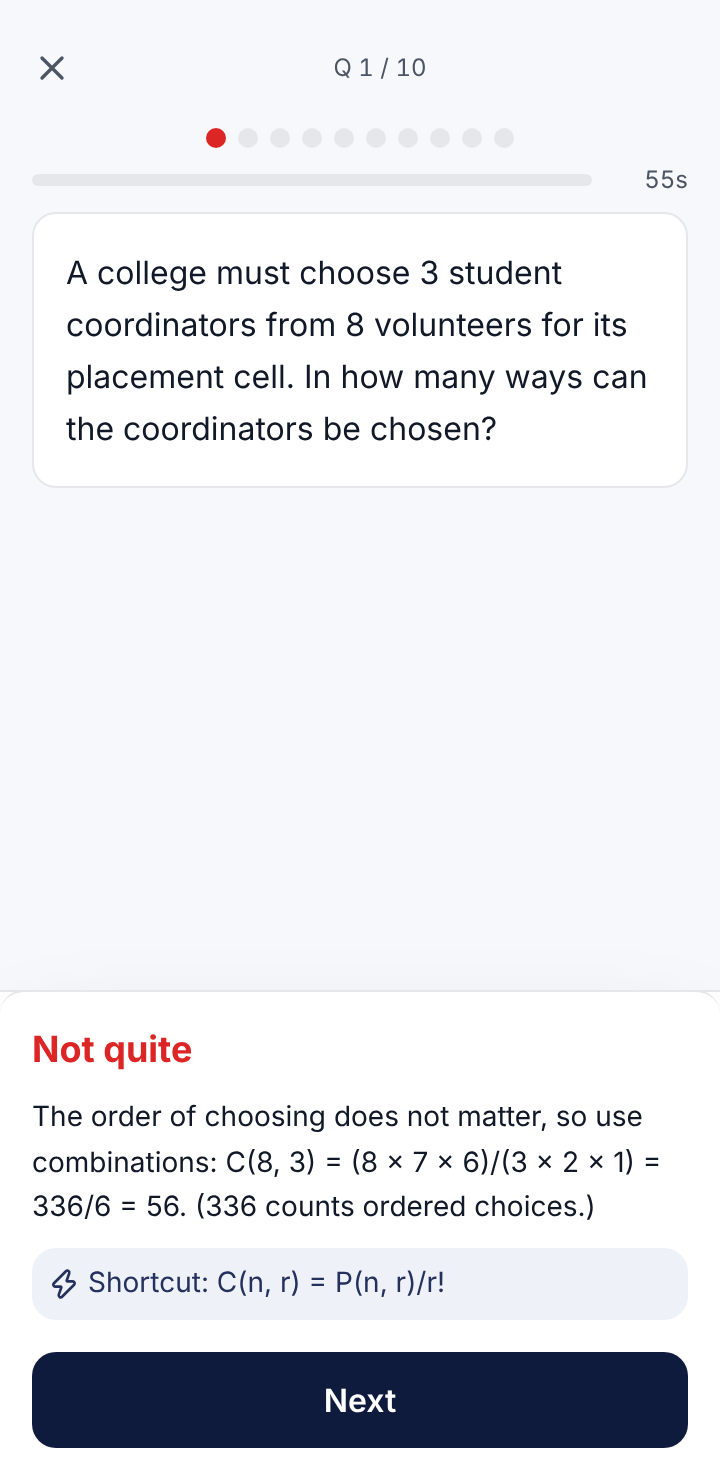
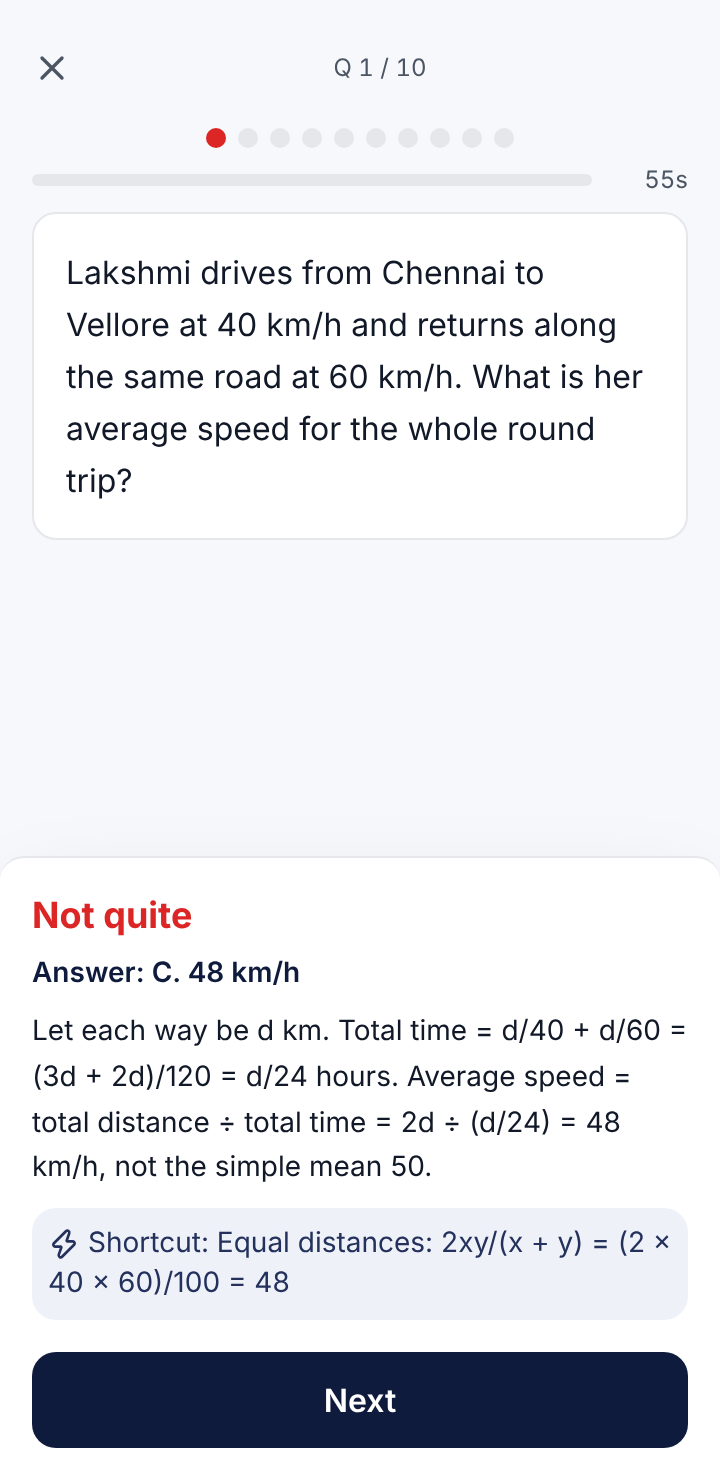
phase 10: show correct option on wrong answers, final QA matrix + progress
Claude-Session: https://claude.ai/code/session_01KwWXsM2UgLTaRN7ciBLri9

Changed region(s): [[0.0306, 0.5905, 0.9167, 0.8703], [0.0917, 0.1554, 0.8861, 0.3419]]

diff --git a/src/components/drill/ExplanationSheet.tsx b/src/components/drill/ExplanationSheet.tsx
@@ -23,6 +23,11 @@ export function ExplanationSheet({ result, onNext, last, explainEnabled, correct
         <p className={`text-lg font-bold ${result.correct ? "text-success-700" : "text-danger-500"}`} data-testid="verdict">
           {result.correct ? `Correct! +${result.xp} XP` : result.chosenDisplayed === null ? "Skipped" : "Not quite"}
         </p>
+        {!result.correct && correctText && (
+          <p className="mt-1 text-sm font-semibold text-ink-900" data-testid="correct-answer">
+            Answer: {["A", "B", "C", "D"][result.correctDisplayed]}. {correctText}
+          </p>
+        )}
         <p className="mt-2 text-sm leading-relaxed text-text-900">{result.explanation}</p>
         {result.shortcut && <p className="mt-2 rounded-md bg-ink-50 p-2 text-sm text-ink-700"><Zap aria-hidden className="mr-1 inline h-4 w-4" />Shortcut: {result.shortcut}</p>}
         {explainEnabled && !result.correct && !more && (

diff --git a/e2e/drill.spec.ts b/e2e/drill.spec.ts
@@ -16,6 +16,7 @@ test("student answers 10 questions → done page shows score and streak 1", asyn
     await expect(page.getByText(`Q ${i + 1} / 10`)).toBeVisible();
     await answerCurrent(page);
     await expect(page.getByTestId("verdict")).toBeVisible();
+    if (/not quite/i.test(await page.getByTestId("verdict").innerText())) await expect(page.getByTestId("correct-answer")).toContainText(/^Answer: [ABCD]\. /);
     await page.getByRole("button", { name: i === 9 ? /finish/i : /^next$/i }).click();
   }
   await expect(page).toHaveURL(/\/done$/);

diff --git a/PROGRESS.md b/PROGRESS.md
@@ -1,26 +1,24 @@
 # PROGRESS — LearnCrew Campus
-Current phase: 10 — Final QA matrix (8 waits for Railway login) | Last green: 2026-11-05T01:50+05:30 | Tests: unit 194/194, e2e 27/27
+Current phase: DONE locally — waiting on human for Railway deploy (8) and API key (3) | Last green: 2026-11-05T02:40+05:30 | Tests: unit 195/195, e2e 32/32 (clean clone)
 Governing spec: ORCHESTRATOR.md (v2, adopted 2026-11-04 mid-build). v1 archived at docs/ORCHESTRATOR-v1.md; v1 phases 0–3 work carried over (same schema + stack).
 
 ## Phase checklist (✅ only when phase QA gate green)
 - [x] 0 — Design system + architecture docs ✅ (docs/DESIGN.md, ARCHITECTURE.md, SECURITY.md; tokens compile)
 - [x] 1 — Scaffold ✅ (v2 tokens navy/amber + Inter + lucide, env.ts boot validation, CSP nonce + headers, CI workflow, /dev/ui, architecture test)
 - [x] 2 — Auth + roles + tenancy ✅ (RBAC matrix 70 cases, Postgres rate limiter + login/submit wiring, audit logger, cookie flags, cross-college DB test; per-route IDOR e2e added as routes land)
-- [ ] 3 — Question bank + pipeline — BLOCKED on 600-Q count only (needs ANTHROPIC_API_KEY, D15). Green: schema tests, verifier fixture test, 260 golden verified Q, coverage/balance test, generate/qa/dedupe/quant-check (--dry-run), idempotent seed
+- [ ] 3 — Question bank + pipeline — BLOCKED on v2's 600-Q count only (needs ANTHROPIC_API_KEY, D15; v1 gate ≥120 met with 260). Green: schema tests, verifier fixture test, 260 golden verified Q, coverage/balance test, generate/qa/dedupe/quant-check (--dry-run), idempotent seed
 - [x] 4 — Student drill + streak + PWA ✅ (e2e: login → 10-Q drill → streak 1; offline answers sync once; SW offline shell + cached drill; axe zero serious on 7 screens; /today 108 KB JS)
 - [x] 5 — Adaptive engine + real mocks ✅ (Elo/bands/6-2-2/spaced review 17 tests; exam UX w/ palette, flags, keyboard, sectional timers, autosave+resume, negative marks, percentile, review mode; cron routes; e2e full mock + refresh, fake-clock auto-submit, leak, IDOR)
 - [x] 6 — TPO dashboard ✅ (KPIs, accuracy/mastery heatmap batch×topic & student×topic w/ company filter, students table + Excel-safe CSV export (audited), drill-down, at-risk + WhatsApp nudges, weekly report (template / Sonnet aggregates-only, cached), create/schedule mock (audited); services p95 ≤ 43 ms on 505 students; e2e incl. cross-college 404)
 - [x] 7 — Admin ✅ (roster CSV import w/ Zod row errors, seat limit, re-import idempotent, invites, rate limit, audit; batches + settings; content review queue w/ blind-QA side-by-side, approve → golden + college access → next drill; superadmin colleges/create+TPO invite, audit log viewer, DPDP export/delete with 15-min re-auth)
 - [ ] 8 — Railway deploy — config ✅ (Dockerfile Node 22 standalone, non-root, healthcheck; railway.json; compose prod; DEPLOY.md). Verified locally: image builds, migrates, /api/health ok, cron 401/200, bad env → exit 1. BLOCKED on human: `railway login` + deploy (steps in docs/DEPLOY.md)
 - [x] 9 — Pilot hardening ✅ (load: 500 students × 10 answers sync p95 35 ms, 200 concurrent mock-takers 200/200; Lighthouse mobile perf 99–100 / a11y 100 on 4 pages; explain-more cached + rate-limited; error/not-found pages; JSON logs; events; landing; smoke suite; DEMO.md; reports in docs/reports/). Backups: Railway volume backups — enable at deploy (DEPLOY.md §1)
-- [ ] 10 — Final QA matrix
+- [x] 10 — Final QA matrix ✅ locally (docs/QA_MATRIX.md: every row mapped to a passing test; anon redirects, CSRF on all JSON routes, IDOR, axe on ~30 screens, gitleaks, npm audit 0, Lighthouse, load, 28 screenshots in docs/screens/; clean-clone run green). Only open row: smoke against the deployed URL (needs phase 8 deploy)
 
-## Current phase tasks (phase 10 — final QA matrix)
-- [ ] docs/QA_MATRIX.md with every row mapped to a test
-- [ ] fill matrix gaps (anon redirects for every route, CSRF on all JSON routes, rate-limit on submit, /api/health unit)
-- [ ] gitleaks-style secret scan, npm audit, axe on TPO/admin screens
-- [ ] 360 px screenshots of every main screen → docs/screens/
-- [ ] full clean-clone run: typecheck, lint, test, e2e, build
+## Current phase tasks
+- [ ] (human) Railway login + deploy per docs/DEPLOY.md → then `BASE_URL=https://<domain> npx playwright test e2e/smoke.spec.ts --project=desktop` against staging
+- [ ] (human, optional) ANTHROPIC_API_KEY → `npx tsx scripts/generate.ts` → `scripts/qa.ts` → `scripts/import-drafts.ts` → approve in /content/review to reach 600+
+- [ ] (human) AUTH_RESEND_KEY + verified sending domain before inviting a real college
 
 ## Feature test registry
 | Feature | Test file | Status |
@@ -65,6 +63,9 @@ Governing spec: ORCHESTRATOR.md (v2, adopted 2026-11-04 mid-build). v1 archived 
 | Load: /api/sync p95 < 500 ms @ 500 students; 200 concurrent mocks | docs/reports/load-test.md | ✅ |
 | Lighthouse mobile ≥ 90 perf / ≥ 95 a11y | docs/reports/lighthouse.md | ✅ |
 | Smoke (health, landing, drill e2e, TPO + CSV + 404) — local or BASE_URL | e2e/smoke.spec.ts | ✅ local; deployed: pending Railway |
+| QA matrix: anon redirects (21 routes), 401/403 CSRF on 4 JSON routes + cron, drill IDOR, axe on TPO/admin/content/super/mock screens | e2e/qa-matrix.spec.ts | ✅ |
+| Health route | tests/health.test.ts | ✅ |
+| Explanation sheet shows the correct option on a wrong answer | e2e/drill.spec.ts | ✅ |
 
 ## Decisions (ADR-lite)
 - D1 2026-11-04: `learncrew-campus-product-pack.md` was NOT provided to the build session. Taxonomy, the "12 samples", and pack prompts (system/variant/qa/seed) are authored by the orchestrator from the summaries in ORCHESTRATOR.md. Replace with pack versions when available.
@@ -88,6 +89,7 @@ Governing spec: ORCHESTRATOR.md (v2, adopted 2026-11-04 mid-build). v1 archived 
 - D21 2026-11-05: v2 "admin re-auth within 15 min" implemented for superadmin mutations (create college, export/delete student) via an Auth.js `signIn` event → `events.sign_in`; stale sessions get a "Confirm it's me" magic link. College-admin/TPO routine actions (import, batches) rely on session + rate limit + audit instead (re-auth there would add a magic-link round trip to every import).
 - D22 2026-11-05: Runtime image uses Node 22 LTS (v1 Dockerfile said Node 20; vitest 5 / toolchain need ≥22.12 and npm 10.8 on Node 20 crashed in `npm ci`). Optional BuildKit `--secret id=ca` for TLS-intercepting proxies (no-op on Railway). `preDeployCommand` runs `node scripts/migrate.mjs` (no tsx/drizzle-kit in the runtime image).
 - D23 2026-11-05: Structured logs are a 20-line JSON logger (`src/lib/log.ts`) rather than pino — pino's worker-thread transport needs extra bundling config in Next standalone; JSON lines are what Railway ingests either way.
+- D24 2026-11-05: Phase 10 a11y fixes: green text uses new `success-700` (#15803D; #16A34A text was 3.3:1), heatmap cells always dark text, landing eyebrow ink-700, streak number ink-900 with amber flame. gitleaks: test-fixture allowlist + one allowlisted historical commit (a throwaway local-DB session cookie embedded in a Lighthouse HTML report; scrubbed next commit, sessions deleted) instead of rewriting pushed history.
 - D16 2026-11-04: CSRF for custom JSON routes = same-origin `Origin` check + `application/json` content-type (forces preflight) + SameSite=Lax cookies; no double-submit token (server actions already have Next origin check).
 - D15 2026-11-04: Bank seeded at 260 hand-authored, machine-verified golden questions (v1 gate ≥120 met; v2 asks 600). The designed route to 600–2,000 is the Haiku-batch → Sonnet-QA pipeline, which needs ANTHROPIC_API_KEY (~$30 per the pack). Not hand-authoring 340 more in-session.
 
@@ -97,6 +99,7 @@ Governing spec: ORCHESTRATOR.md (v2, adopted 2026-11-04 mid-build). v1 archived 
 - [ ] Railway login + first deploy (Phase 8) — run docs/DEPLOY.md §0–§4 (≈15 min). Everything else is ready.
 
 ## Log
+- 2026-11-05T02:40+05:30 phase 10 done locally: QA matrix green, clean clone (npm ci → typecheck → lint → 195 unit → 32 e2e → build) green. Remaining: Railway deploy (human login), 600-Q bank (API key).
 - 2026-11-05T01:50+05:30 phase 9 done: load + Lighthouse reports committed, explain-more, error pages, landing, smoke, DEMO.md.
 - 2026-11-05T01:20+05:30 phase 8 config done + verified with local Docker; deploy waits for Railway login.
 - 2026-11-05T00:50+05:30 phase 7 done: admin + content + superadmin; 192 unit + 24 e2e green.
